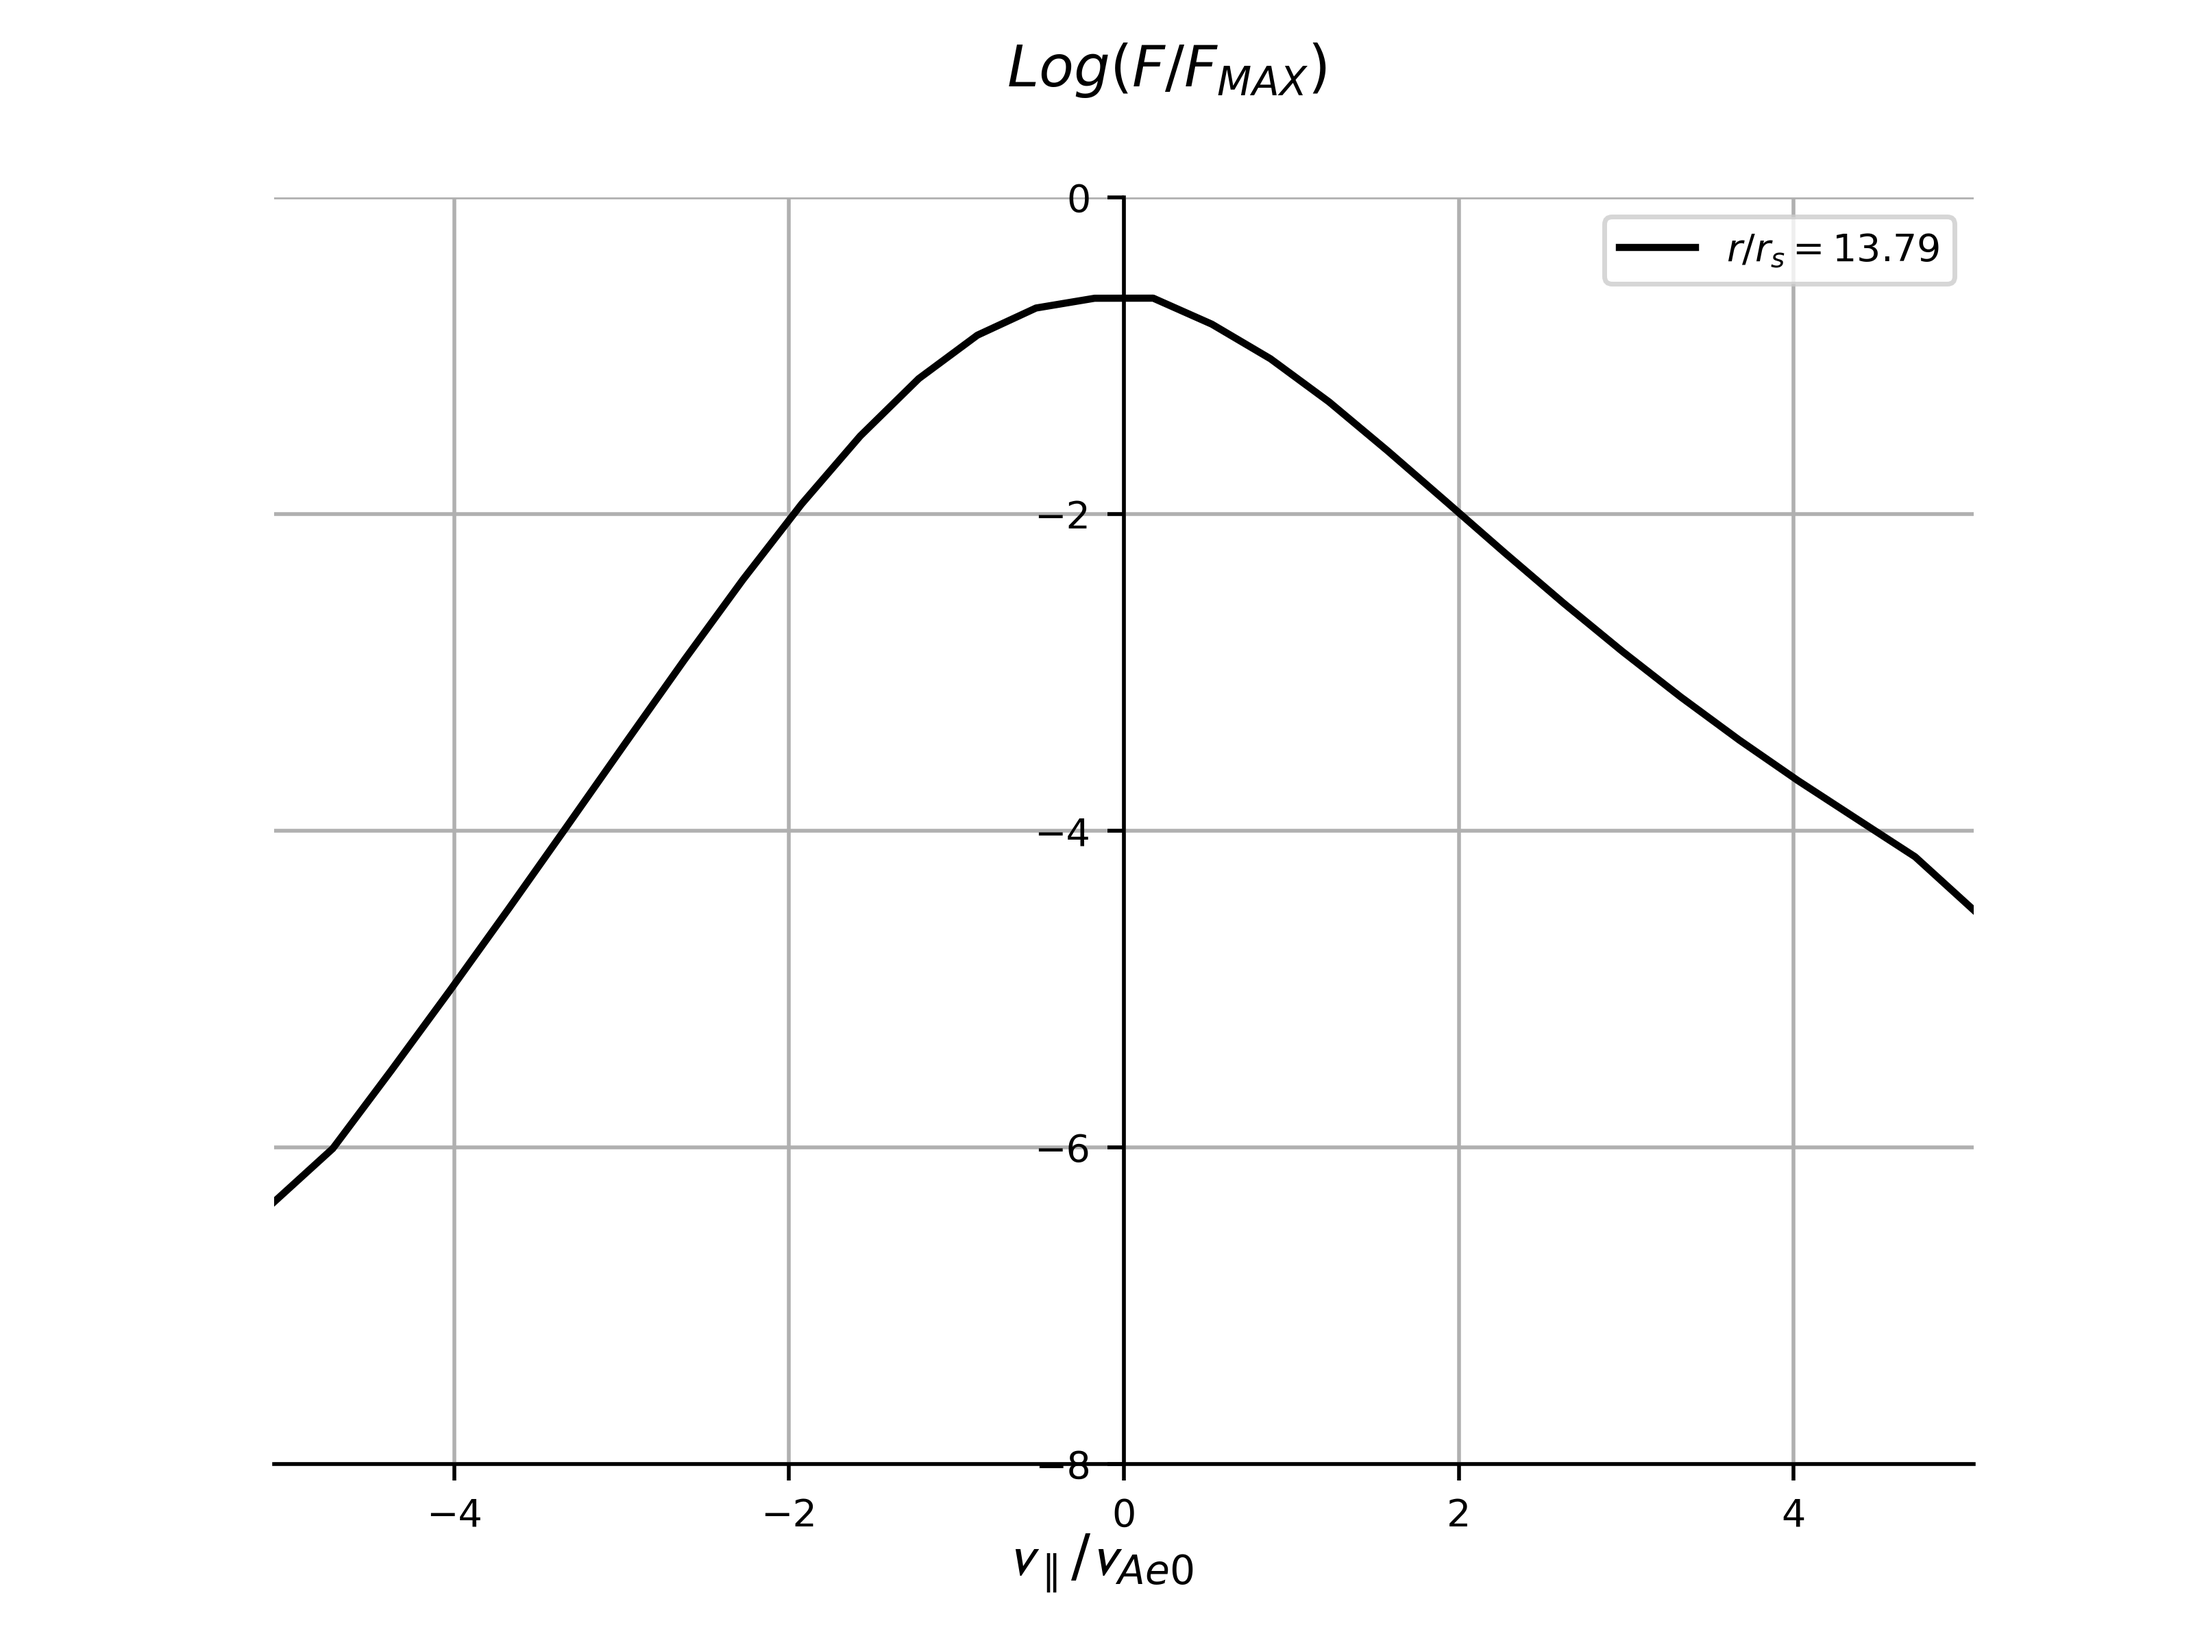
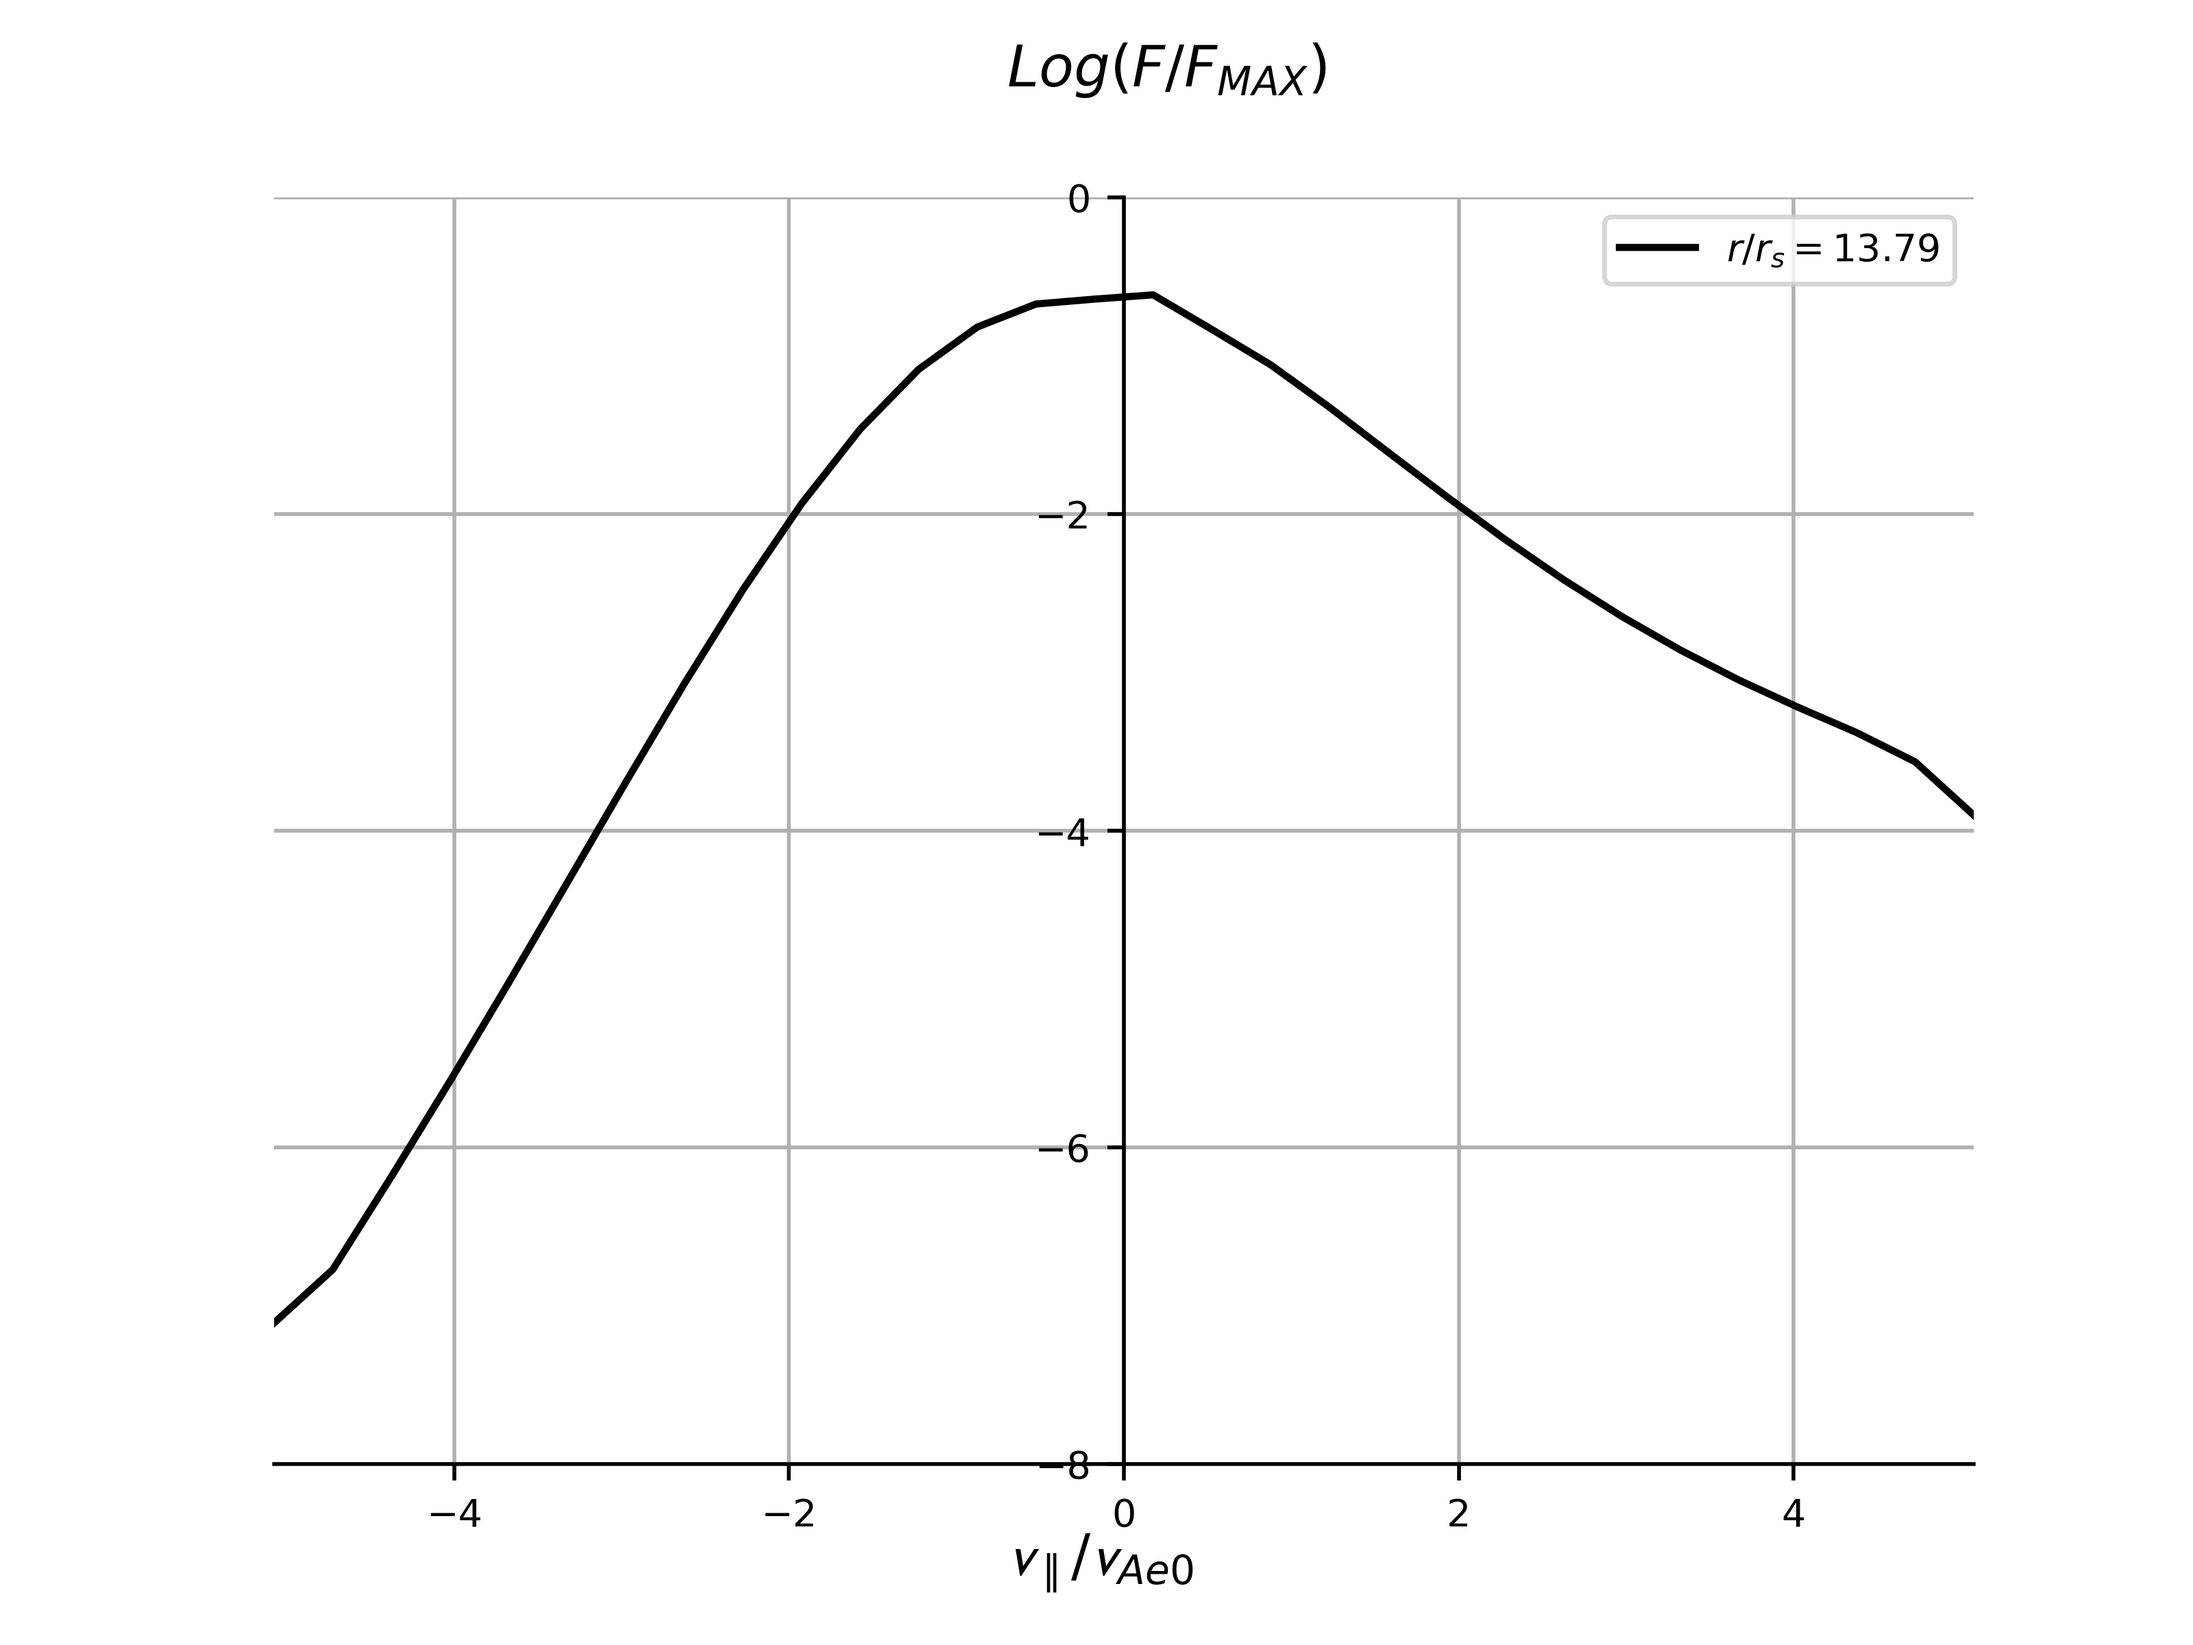
update

diff --git a/collision2021.py b/collision2021.py
@@ -18,7 +18,7 @@ from lmfit import Parameters, fit_report, minimize
 #from lmfit import Model
 import lmfit
 
-Nv=30  #velocity step number
+Nv=40  #velocity step number
 i_solar_r=5 #10
 f_solar_r=20 #30
 path_home="/Users/user/Desktop/JSY2/"
@@ -549,7 +549,7 @@ for a in range(Nr-1):
 	for b in range(Nr-1):
 		if a==b:
 			AAA[(a)*(Nv*Nv):(a+1)*(Nv*Nv),(b+1)*(Nv*Nv):(b+2)*(Nv*Nv)]=Matrix_alphaA(a)
-AAA_1 = inv(AAA)
+AAA_1 = np.linalg.inv(AAA)#inv(AAA)
 del AAA
 
 QQQ=np.zeros(((Nr)*(Nv)**2,(Nr)*(Nv)**2))
@@ -586,7 +586,7 @@ kl=50
 
 np.save('data_pre.npy', f_1)
 
-timestep=910 #948
+timestep=10 #948
 Normvalue=np.zeros(shape = (timestep))
 Normvalue_bulk=np.zeros(shape = (timestep))
 for k in range(timestep):
